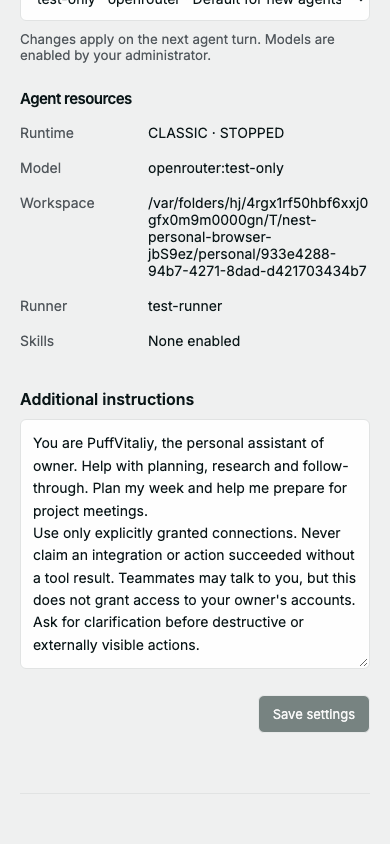
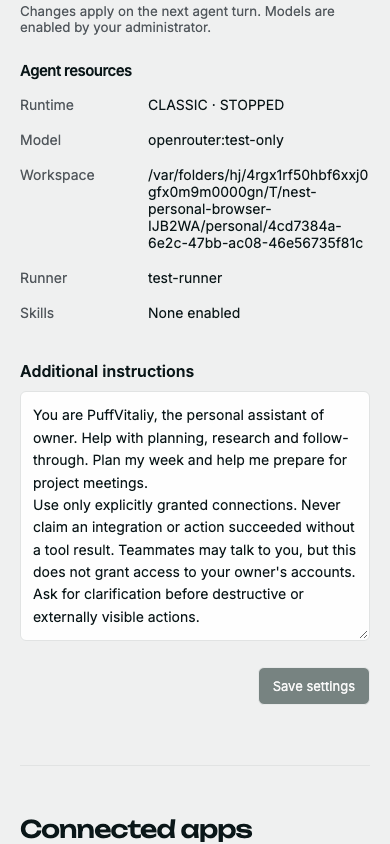
test(agents): capture connected app controls in view

Changed region(s): [[0.0615, 0.0924, 0.9538, 0.8934], [0.0308, 0.0, 0.8615, 0.2464], [0.0615, 0.955, 0.6462, 1.0]]

diff --git a/tests/browser/onboarding.ts b/tests/browser/onboarding.ts
@@ -311,6 +311,7 @@ try {
       assert.deepEqual(grants, [
         { connectionId: "test-account", tools: ["TRELLO_GET_BOARDS"] },
       ]);
+      await page.getByRole("heading", {name:"Connected apps",exact:true}).scrollIntoViewIfNeeded();
       await page.screenshot({
         path: join(screenshots, "connections-desktop.png"),
         fullPage: true,
@@ -321,6 +322,7 @@ try {
           () => document.documentElement.scrollWidth <= innerWidth,
         ),
       );
+      await page.getByRole("heading", {name:"Connected apps",exact:true}).scrollIntoViewIfNeeded();
       await page.screenshot({
         path: join(screenshots, "connections-mobile.png"),
         fullPage: true,
